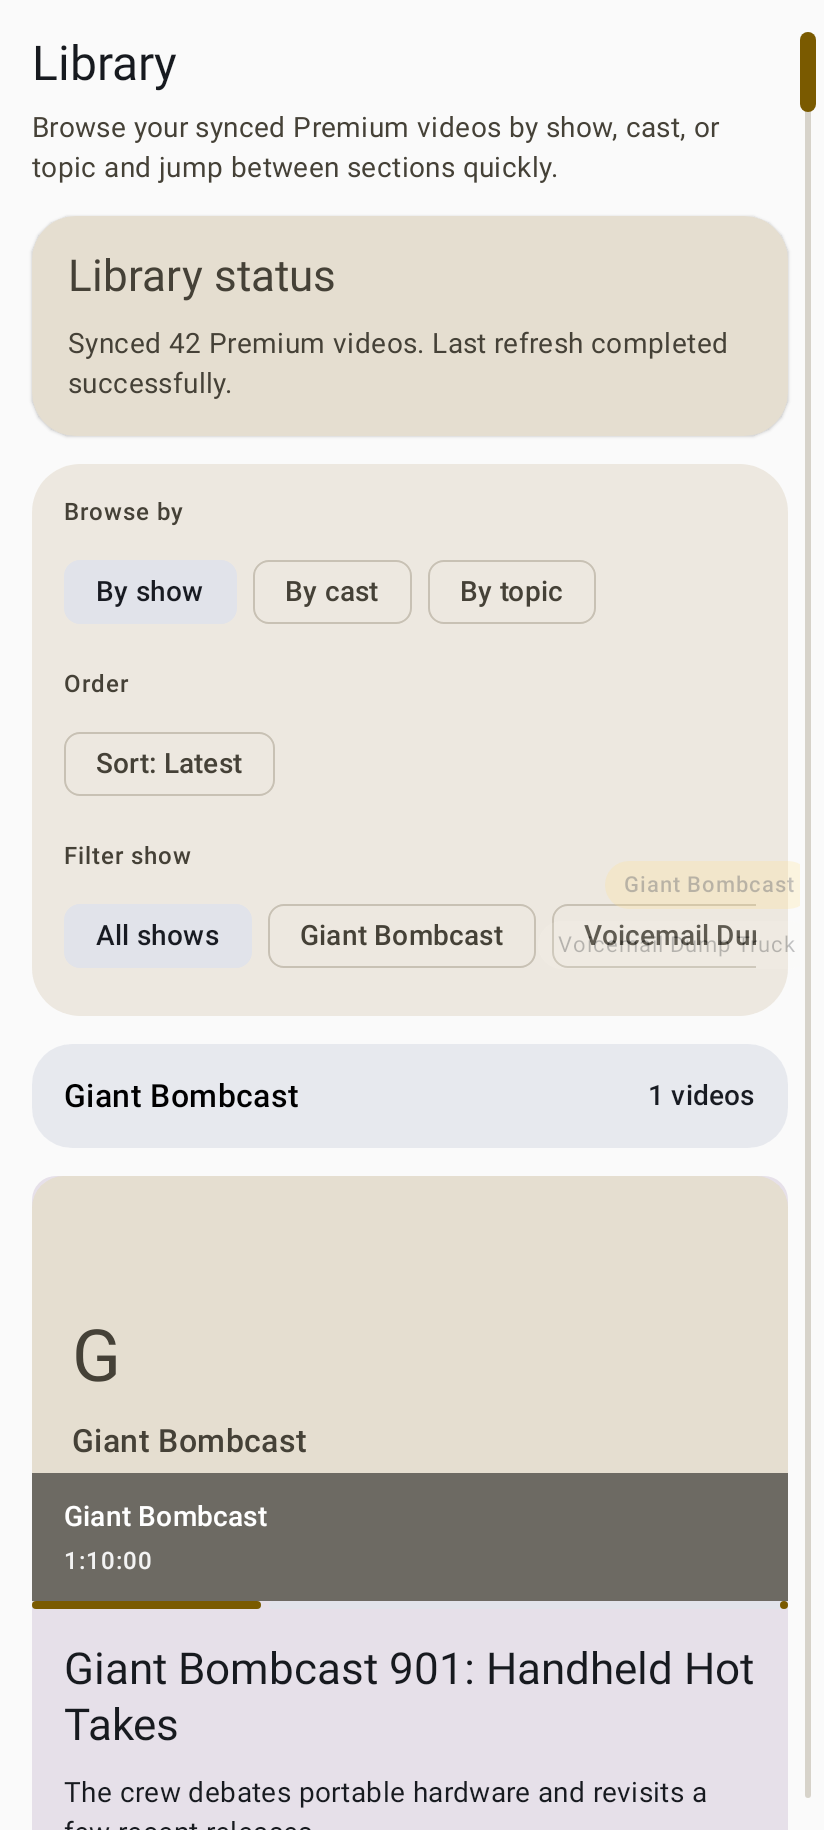
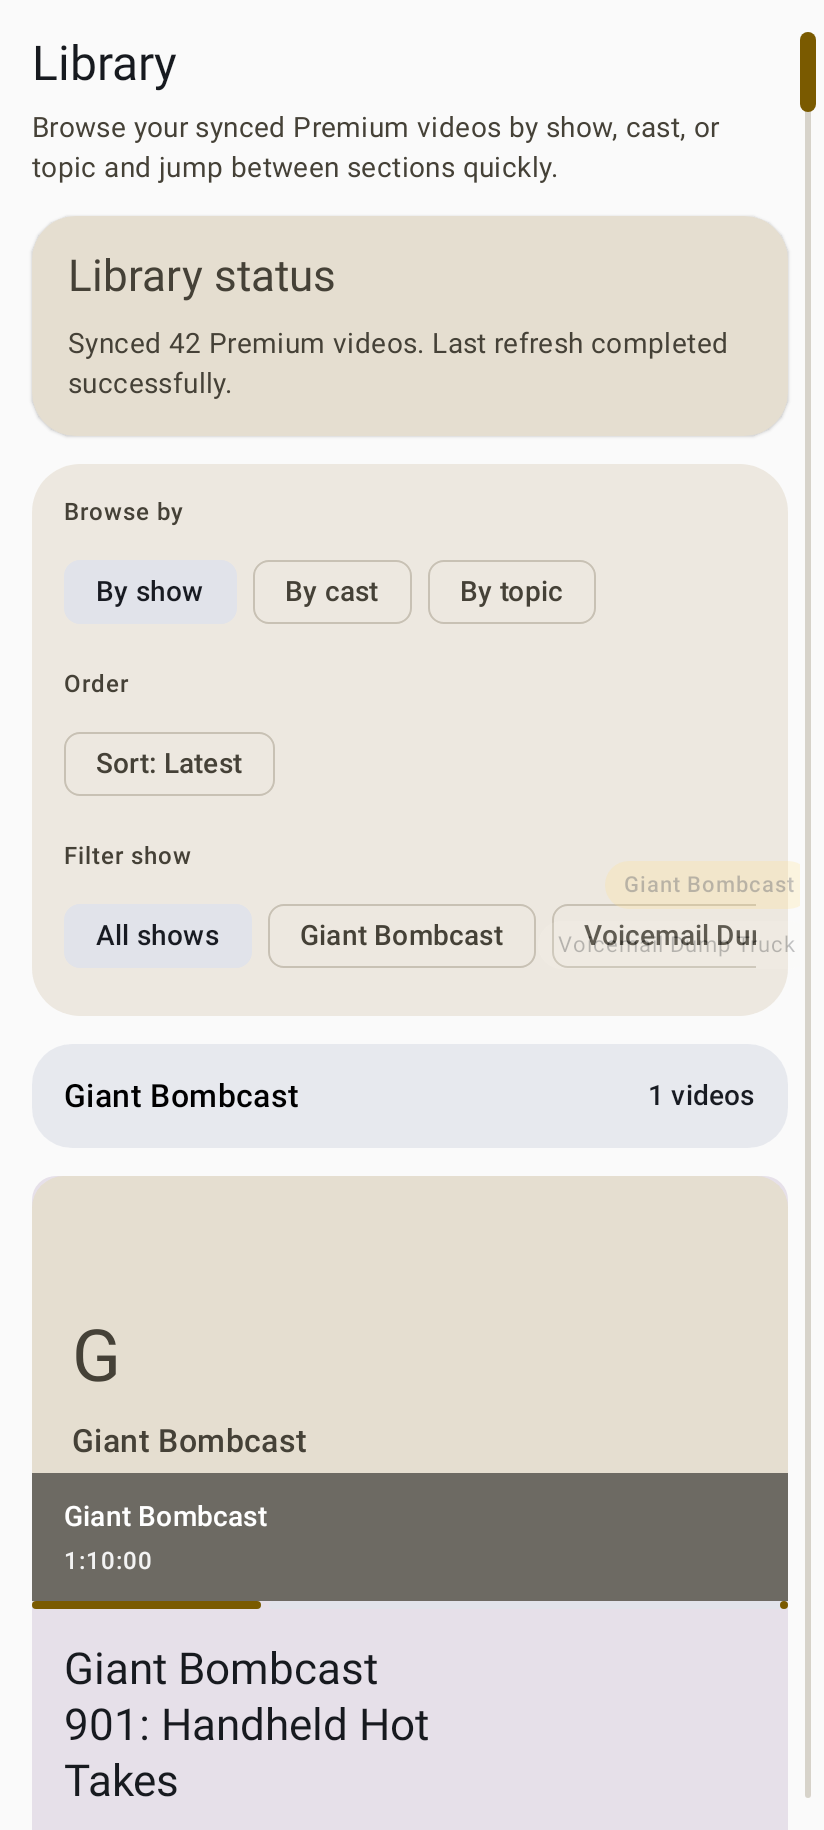
Protect library card text from jump rail

Changed region(s): [[0.0607, 0.9033, 0.9102, 1.0], [0.6675, 0.9656, 0.8192, 0.9967], [0.5158, 0.9656, 0.6371, 0.9967]]

diff --git a/feature/library/src/main/java/com/looktube/feature/library/LibraryRoute.kt b/feature/library/src/main/java/com/looktube/feature/library/LibraryRoute.kt
@@ -57,6 +57,7 @@ import androidx.compose.ui.layout.ContentScale
 import androidx.compose.ui.text.style.TextAlign
 import androidx.compose.ui.text.font.FontWeight
 import androidx.compose.ui.text.style.TextOverflow
+import androidx.compose.ui.unit.Dp
 import androidx.compose.ui.unit.dp
 import androidx.compose.ui.unit.sp
 import coil3.compose.AsyncImage
@@ -140,6 +141,7 @@ fun LibraryRoute(
             }
             .sortedWith(sectionComparator(sortOption))
     }
+    val videoCardTextEndPadding = if (sections.isEmpty()) 0.dp else JUMP_RAIL_TEXT_CLEARANCE
     val sectionStartIndices = remember(sections) {
         buildList {
             var currentIndex = GROUP_LIST_START_INDEX
@@ -249,6 +251,7 @@ fun LibraryRoute(
                         VideoListCard(
                             video = video,
                             progress = playbackProgress[video.id],
+                            textEndPadding = videoCardTextEndPadding,
                             modifier = Modifier.clickable { onVideoSelected(video.id) },
                         )
                     }
@@ -399,6 +402,11 @@ private enum class LibrarySortOption(val label: String) {
 private const val ALL_SERIES_FILTER = "All shows"
 private const val GROUP_LIST_START_INDEX = 4
 private const val RAIL_IDLE_FADE_DELAY_MS = 1_400L
+private val JUMP_RAIL_WIDTH = 176.dp
+private val JUMP_RAIL_LABEL_WIDTH = 156.dp
+private val JUMP_RAIL_LABEL_END_PADDING = 6.dp
+private val JUMP_RAIL_TEXT_CLEARANCE = JUMP_RAIL_LABEL_WIDTH + JUMP_RAIL_LABEL_END_PADDING
+private val JUMP_RAIL_TRACK_WIDTH = 8.dp
 
 private fun List<VideoSummary>.sortedFor(sortOption: LibrarySortOption): List<VideoSummary> =
     when (sortOption) {
@@ -478,6 +486,7 @@ private fun SeriesSectionHeader(section: SeriesSection) {
 private fun VideoListCard(
     video: VideoSummary,
     progress: PlaybackProgress?,
+    textEndPadding: Dp = 0.dp,
     modifier: Modifier = Modifier,
 ) {
     val progressFraction = progress?.takeIf { it.durationSeconds > 0 }
@@ -500,7 +509,12 @@ private fun VideoListCard(
                     color = Color.Black.copy(alpha = 0.52f),
                 ) {
                     Column(
-                        modifier = Modifier.padding(horizontal = 16.dp, vertical = 12.dp),
+                        modifier = Modifier.padding(
+                            start = 16.dp,
+                            top = 12.dp,
+                            end = 16.dp + textEndPadding,
+                            bottom = 12.dp,
+                        ),
                         verticalArrangement = Arrangement.spacedBy(4.dp),
                     ) {
                         Text(
@@ -525,7 +539,12 @@ private fun VideoListCard(
                 )
             }
             Column(
-                modifier = Modifier.padding(16.dp),
+                modifier = Modifier.padding(
+                    start = 16.dp,
+                    top = 16.dp,
+                    end = 16.dp + textEndPadding,
+                    bottom = 16.dp,
+                ),
                 verticalArrangement = Arrangement.spacedBy(10.dp),
             ) {
                 Text(
@@ -614,16 +633,16 @@ private fun ShowJumpRail(
     )
 
     Row(
-        modifier = modifier.width(176.dp),
+        modifier = modifier.width(JUMP_RAIL_WIDTH),
         horizontalArrangement = Arrangement.End,
         verticalAlignment = Alignment.CenterVertically,
     ) {
         LazyColumn(
             state = listState,
             modifier = Modifier
-                .width(156.dp)
+                .width(JUMP_RAIL_LABEL_WIDTH)
                 .graphicsLayer(alpha = labelAlpha)
-                .padding(end = 6.dp),
+                .padding(end = JUMP_RAIL_LABEL_END_PADDING),
             verticalArrangement = Arrangement.spacedBy(6.dp),
             horizontalAlignment = Alignment.End,
             contentPadding = PaddingValues(vertical = 8.dp),
@@ -677,7 +696,7 @@ private fun JumpRailTrack(
 ) {
     BoxWithConstraints(
         modifier = Modifier
-            .width(8.dp)
+            .width(JUMP_RAIL_TRACK_WIDTH)
             .fillMaxHeight(),
     ) {
         val thumbHeight = 40.dp
@@ -701,7 +720,7 @@ private fun JumpRailTrack(
             modifier = Modifier
                 .align(Alignment.TopCenter)
                 .padding(top = thumbOffset)
-                .size(width = 8.dp, height = thumbHeight)
+                .size(width = JUMP_RAIL_TRACK_WIDTH, height = thumbHeight)
                 .clip(RoundedCornerShape(999.dp))
                 .background(MaterialTheme.colorScheme.primary),
         )
